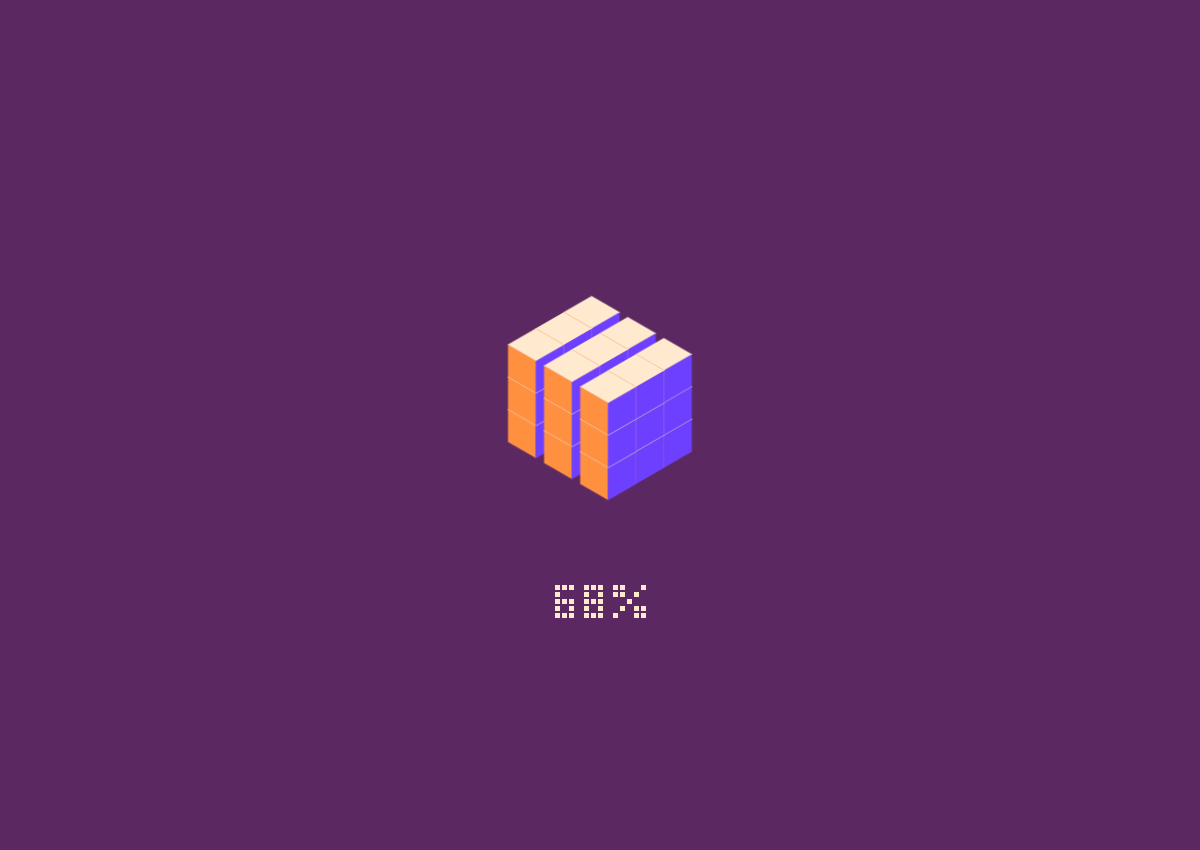
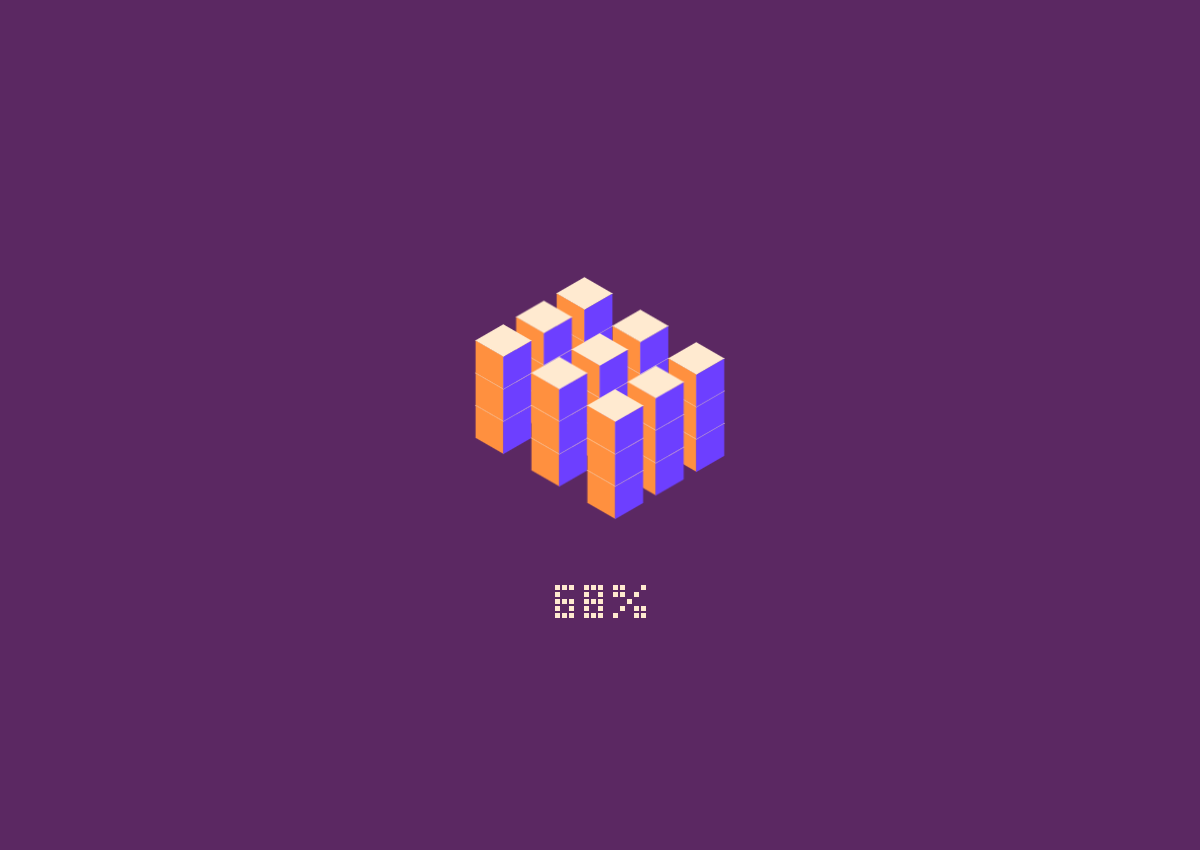
Reveal genuinely slow loads with a center-opening curtain and skip fast transitions

Changed region(s): [[0.37, 0.3059, 0.6167, 0.6118]]

diff --git a/site-loader.css b/site-loader.css
@@ -1,6 +1,6 @@
 /* Cube arrangement/keyframe positions adapted from cssinate's Cube loading animation:
    https://codepen.io/cssinate/pen/vXEwmX. Palette approved by Cecilia. */
-.cecilia-loader{--loader-scale:.65;--pixel:5px;--pixel-gap:2px;position:fixed;inset:0;z-index:10000;display:flex;flex-direction:column;align-items:center;justify-content:center;gap:22px;background:#5B2862;color:#FFEAD0;border:0;margin:0;padding:0;isolation:isolate;overflow:hidden;box-sizing:border-box}
+.cecilia-loader{--loader-scale:.65;--pixel:5px;--pixel-gap:2px;position:fixed;inset:0;z-index:10000;display:flex;flex-direction:column;align-items:center;justify-content:center;gap:22px;background:#5B2862;color:#FFEAD0;border:0;margin:0;padding:0;isolation:isolate;overflow:hidden;box-sizing:border-box;visibility:hidden;pointer-events:none;animation:cecilia-loader-appear 0s 450ms forwards}
 .cecilia-loader[hidden]{display:none!important}
 .cecilia-loader .cube-scene{width:320px;height:330px;position:relative;flex:none}
 .cecilia-loader .cube-origin{position:absolute;width:86px;height:100px;left:50%;top:50%;transform:translate(-50%,-50%) scale(var(--loader-scale))}
@@ -20,3 +20,16 @@
 @media(prefers-reduced-motion:reduce){.cecilia-loader .cube{animation-play-state:paused;animation-delay:0s}}
 @media print{.cecilia-loader{display:none!important}}
 .cecilia-loader .h1w1l1{z-index:-1;animation-name:cecilia-h1w1l1}@keyframes cecilia-h1w1l1{0%{transform:translate(0%,-100%);}14%{transform:translate(-50%,-125%);}28%{transform:translate(0%,-150%);}43%{transform:translate(0%,-200%);}57%{transform:translate(50%,-175%);}71%{transform:translate(0%,-150%);}85%{transform:translate(0%,-100%);}100%{transform:translate(0%,-100%);}}.cecilia-loader .h1w1l2{z-index:-1;animation-name:cecilia-h1w1l2}@keyframes cecilia-h1w1l2{0%{transform:translate(50%,-75%);}14%{transform:translate(50%,-75%);}28%{transform:translate(100%,-100%);}43%{transform:translate(100%,-150%);}57%{transform:translate(100%,-150%);}71%{transform:translate(50%,-125%);}85%{transform:translate(50%,-75%);}100%{transform:translate(50%,-75%);}}.cecilia-loader .h1w1l3{z-index:-1;animation-name:cecilia-h1w1l3}@keyframes cecilia-h1w1l3{0%{transform:translate(100%,-50%);}14%{transform:translate(150%,-25%);}28%{transform:translate(200%,-50%);}43%{transform:translate(200%,-100%);}57%{transform:translate(150%,-125%);}71%{transform:translate(100%,-100%);}85%{transform:translate(100%,-50%);}100%{transform:translate(100%,-50%);}}.cecilia-loader .h1w2l1{z-index:-1;animation-name:cecilia-h1w2l1}@keyframes cecilia-h1w2l1{0%{transform:translate(-50%,-75%);}14%{transform:translate(-100%,-100%);}28%{transform:translate(-100%,-100%);}43%{transform:translate(-100%,-150%);}57%{transform:translate(-50%,-125%);}71%{transform:translate(-50%,-125%);}85%{transform:translate(-50%,-75%);}100%{transform:translate(-50%,-75%);}}.cecilia-loader .h1w2l2{z-index:-1;animation-name:cecilia-h1w2l2}@keyframes cecilia-h1w2l2{0%{transform:translate(0%,-50%);}14%{transform:translate(0%,-50%);}28%{transform:translate(0%,-50%);}43%{transform:translate(0%,-100%);}57%{transform:translate(0%,-100%);}71%{transform:translate(0%,-100%);}85%{transform:translate(0%,-50%);}100%{transform:translate(0%,-50%);}}.cecilia-loader .h1w2l3{z-index:-1;animation-name:cecilia-h1w2l3}@keyframes cecilia-h1w2l3{0%{transform:translate(50%,-25%);}14%{transform:translate(100%,0%);}28%{transform:translate(100%,0%);}43%{transform:translate(100%,-50%);}57%{transform:translate(50%,-75%);}71%{transform:translate(50%,-75%);}85%{transform:translate(50%,-25%);}100%{transform:translate(50%,-25%);}}.cecilia-loader .h1w3l1{z-index:-1;animation-name:cecilia-h1w3l1}@keyframes cecilia-h1w3l1{0%{transform:translate(-100%,-50%);}14%{transform:translate(-150%,-75%);}28%{transform:translate(-200%,-50%);}43%{transform:translate(-200%,-100%);}57%{transform:translate(-150%,-75%);}71%{transform:translate(-100%,-100%);}85%{transform:translate(-100%,-50%);}100%{transform:translate(-100%,-50%);}}.cecilia-loader .h1w3l2{z-index:-1;animation-name:cecilia-h1w3l2}@keyframes cecilia-h1w3l2{0%{transform:translate(-50%,-25%);}14%{transform:translate(-50%,-25%);}28%{transform:translate(-100%,0%);}43%{transform:translate(-100%,-50%);}57%{transform:translate(-100%,-50%);}71%{transform:translate(-50%,-75%);}85%{transform:translate(-50%,-25%);}100%{transform:translate(-50%,-25%);}}.cecilia-loader .h1w3l3{z-index:-1;animation-name:cecilia-h1w3l3}@keyframes cecilia-h1w3l3{0%{transform:translate(0%,0%);}14%{transform:translate(50%,25%);}28%{transform:translate(0%,50%);}43%{transform:translate(0%,0%);}57%{transform:translate(-50%,-25%);}71%{transform:translate(0%,-50%);}85%{transform:translate(0%,0%);}100%{transform:translate(0%,0%);}}.cecilia-loader .h2w1l1{z-index:-2;animation-name:cecilia-h2w1l1}@keyframes cecilia-h2w1l1{0%{transform:translate(0%,-50%);}14%{transform:translate(-50%,-75%);}28%{transform:translate(0%,-100%);}43%{transform:translate(0%,-100%);}57%{transform:translate(50%,-75%);}71%{transform:translate(0%,-50%);}85%{transform:translate(0%,-50%);}100%{transform:translate(0%,-50%);}}.cecilia-loader .h2w1l2{z-index:-2;animation-name:cecilia-h2w1l2}@keyframes cecilia-h2w1l2{0%{transform:translate(50%,-25%);}14%{transform:translate(50%,-25%);}28%{transform:translate(100%,-50%);}43%{transform:translate(100%,-50%);}57%{transform:translate(100%,-50%);}71%{transform:translate(50%,-25%);}85%{transform:translate(50%,-25%);}100%{transform:translate(50%,-25%);}}.cecilia-loader .h2w1l3{z-index:-2;animation-name:cecilia-h2w1l3}@keyframes cecilia-h2w1l3{0%{transform:translate(100%,0%);}14%{transform:translate(150%,25%);}28%{transform:translate(200%,0%);}43%{transform:translate(200%,0%);}57%{transform:translate(150%,-25%);}71%{transform:translate(100%,0%);}85%{transform:translate(100%,0%);}100%{transform:translate(100%,0%);}}.cecilia-loader .h2w2l1{z-index:-2;animation-name:cecilia-h2w2l1}@keyframes cecilia-h2w2l1{0%{transform:translate(-50%,-25%);}14%{transform:translate(-100%,-50%);}28%{transform:translate(-100%,-50%);}43%{transform:translate(-100%,-50%);}57%{transform:translate(-50%,-25%);}71%{transform:translate(-50%,-25%);}85%{transform:translate(-50%,-25%);}100%{transform:translate(-50%,-25%);}}.cecilia-loader .h2w2l2{z-index:-2;animation-name:cecilia-h2w2l2}@keyframes cecilia-h2w2l2{0%{transform:translate(0%,0%);}14%{transform:translate(0%,0%);}28%{transform:translate(0%,0%);}43%{transform:translate(0%,0%);}57%{transform:translate(0%,0%);}71%{transform:translate(0%,0%);}85%{transform:translate(0%,0%);}100%{transform:translate(0%,0%);}}.cecilia-loader .h2w2l3{z-index:-2;animation-name:cecilia-h2w2l3}@keyframes cecilia-h2w2l3{0%{transform:translate(50%,25%);}14%{transform:translate(100%,50%);}28%{transform:translate(100%,50%);}43%{transform:translate(100%,50%);}57%{transform:translate(50%,25%);}71%{transform:translate(50%,25%);}85%{transform:translate(50%,25%);}100%{transform:translate(50%,25%);}}.cecilia-loader .h2w3l1{z-index:-2;animation-name:cecilia-h2w3l1}@keyframes cecilia-h2w3l1{0%{transform:translate(-100%,0%);}14%{transform:translate(-150%,-25%);}28%{transform:translate(-200%,0%);}43%{transform:translate(-200%,0%);}57%{transform:translate(-150%,25%);}71%{transform:translate(-100%,0%);}85%{transform:translate(-100%,0%);}100%{transform:translate(-100%,0%);}}.cecilia-loader .h2w3l2{z-index:-2;animation-name:cecilia-h2w3l2}@keyframes cecilia-h2w3l2{0%{transform:translate(-50%,25%);}14%{transform:translate(-50%,25%);}28%{transform:translate(-100%,50%);}43%{transform:translate(-100%,50%);}57%{transform:translate(-100%,50%);}71%{transform:translate(-50%,25%);}85%{transform:translate(-50%,25%);}100%{transform:translate(-50%,25%);}}.cecilia-loader .h2w3l3{z-index:-2;animation-name:cecilia-h2w3l3}@keyframes cecilia-h2w3l3{0%{transform:translate(0%,50%);}14%{transform:translate(50%,75%);}28%{transform:translate(0%,100%);}43%{transform:translate(0%,100%);}57%{transform:translate(-50%,75%);}71%{transform:translate(0%,50%);}85%{transform:translate(0%,50%);}100%{transform:translate(0%,50%);}}.cecilia-loader .h3w1l1{z-index:-3;animation-name:cecilia-h3w1l1}@keyframes cecilia-h3w1l1{0%{transform:translate(0%,0%);}14%{transform:translate(-50%,-25%);}28%{transform:translate(0%,-50%);}43%{transform:translate(0%,0%);}57%{transform:translate(50%,25%);}71%{transform:translate(0%,50%);}85%{transform:translate(0%,0%);}100%{transform:translate(0%,0%);}}.cecilia-loader .h3w1l2{z-index:-3;animation-name:cecilia-h3w1l2}@keyframes cecilia-h3w1l2{0%{transform:translate(50%,25%);}14%{transform:translate(50%,25%);}28%{transform:translate(100%,0%);}43%{transform:translate(100%,50%);}57%{transform:translate(100%,50%);}71%{transform:translate(50%,75%);}85%{transform:translate(50%,25%);}100%{transform:translate(50%,25%);}}.cecilia-loader .h3w1l3{z-index:-3;animation-name:cecilia-h3w1l3}@keyframes cecilia-h3w1l3{0%{transform:translate(100%,50%);}14%{transform:translate(150%,75%);}28%{transform:translate(200%,50%);}43%{transform:translate(200%,100%);}57%{transform:translate(150%,75%);}71%{transform:translate(100%,100%);}85%{transform:translate(100%,50%);}100%{transform:translate(100%,50%);}}.cecilia-loader .h3w2l1{z-index:-3;animation-name:cecilia-h3w2l1}@keyframes cecilia-h3w2l1{0%{transform:translate(-50%,25%);}14%{transform:translate(-100%,0%);}28%{transform:translate(-100%,0%);}43%{transform:translate(-100%,50%);}57%{transform:translate(-50%,75%);}71%{transform:translate(-50%,75%);}85%{transform:translate(-50%,25%);}100%{transform:translate(-50%,25%);}}.cecilia-loader .h3w2l2{z-index:-3;animation-name:cecilia-h3w2l2}@keyframes cecilia-h3w2l2{0%{transform:translate(0%,50%);}14%{transform:translate(0%,50%);}28%{transform:translate(0%,50%);}43%{transform:translate(0%,100%);}57%{transform:translate(0%,100%);}71%{transform:translate(0%,100%);}85%{transform:translate(0%,50%);}100%{transform:translate(0%,50%);}}.cecilia-loader .h3w2l3{z-index:-3;animation-name:cecilia-h3w2l3}@keyframes cecilia-h3w2l3{0%{transform:translate(50%,75%);}14%{transform:translate(100%,100%);}28%{transform:translate(100%,100%);}43%{transform:translate(100%,150%);}57%{transform:translate(50%,125%);}71%{transform:translate(50%,125%);}85%{transform:translate(50%,75%);}100%{transform:translate(50%,75%);}}.cecilia-loader .h3w3l1{z-index:-3;animation-name:cecilia-h3w3l1}@keyframes cecilia-h3w3l1{0%{transform:translate(-100%,50%);}14%{transform:translate(-150%,25%);}28%{transform:translate(-200%,50%);}43%{transform:translate(-200%,100%);}57%{transform:translate(-150%,125%);}71%{transform:translate(-100%,100%);}85%{transform:translate(-100%,50%);}100%{transform:translate(-100%,50%);}}.cecilia-loader .h3w3l2{z-index:-3;animation-name:cecilia-h3w3l2}@keyframes cecilia-h3w3l2{0%{transform:translate(-50%,75%);}14%{transform:translate(-50%,75%);}28%{transform:translate(-100%,100%);}43%{transform:translate(-100%,150%);}57%{transform:translate(-100%,150%);}71%{transform:translate(-50%,125%);}85%{transform:translate(-50%,75%);}100%{transform:translate(-50%,75%);}}.cecilia-loader .h3w3l3{z-index:-3;animation-name:cecilia-h3w3l3}@keyframes cecilia-h3w3l3{0%{transform:translate(0%,100%);}14%{transform:translate(50%,125%);}28%{transform:translate(0%,150%);}43%{transform:translate(0%,200%);}57%{transform:translate(-50%,175%);}71%{transform:translate(0%,150%);}85%{transform:translate(0%,100%);}100%{transform:translate(0%,100%);}}
+
+@keyframes cecilia-loader-appear{to{visibility:visible;pointer-events:auto}}
+.cecilia-loader.is-visible{visibility:visible;pointer-events:auto}
+.cecilia-loader .loader-curtain{position:absolute;top:0;bottom:0;width:50.1%;background:#5B2862;z-index:0;transition:transform 700ms cubic-bezier(.76,0,.24,1);will-change:transform}
+.cecilia-loader .loader-curtain-left{left:0}
+.cecilia-loader .loader-curtain-right{right:0}
+.cecilia-loader .cube-scene,.cecilia-loader .pixel-percent{z-index:1;position:relative;transition:opacity 200ms ease,transform 300ms ease}
+.cecilia-loader.is-opening{background:transparent}
+.cecilia-loader.is-opening .loader-curtain-left{transform:translateX(-101%)}
+.cecilia-loader.is-opening .loader-curtain-right{transform:translateX(101%)}
+.cecilia-loader.is-opening .cube-scene{opacity:0;transform:scale(.94)}
+.cecilia-loader.is-opening .pixel-percent{opacity:0}
+@media(prefers-reduced-motion:reduce){.cecilia-loader .loader-curtain,.cecilia-loader .cube-scene,.cecilia-loader .pixel-percent{transition:none}}

diff --git a/site-loader.js b/site-loader.js
@@ -11,15 +11,50 @@
     element.classList.add('cecilia-loader');if(inline)element.classList.add('cecilia-loader--inline');
     element.setAttribute('role','progressbar');element.setAttribute('aria-label','正在加载');element.setAttribute('aria-valuemin','0');element.setAttribute('aria-valuemax','100');
     if(!element.querySelector('.cube-origin'))element.innerHTML=markup();
-    let value=-1,finished=false;
+    // Delay presentation, never completion: fast/cached reads remain unobscured.
+    const bootVisible=getComputedStyle(element).visibility==='visible';
+    const started=element.id==='loading'?0:performance.now();
+    element.style.animation='none';
+    element.classList.remove('is-opening','is-visible');
+    if(!element.querySelector('.loader-curtain')){
+      element.insertAdjacentHTML('afterbegin','<div class="loader-curtain loader-curtain-left" aria-hidden="true"></div><div class="loader-curtain loader-curtain-right" aria-hidden="true"></div>');
+    }
+    let value=-1,finished=false,shown=false,showTimer,openingTimer,endTimer;
+    element.dataset.shown='false';
+    function show(){
+      if(finished)return;
+      shown=true;element.dataset.shown='true';element.classList.add('is-visible');
+    }
+    if(bootVisible||performance.now()-started>=450)show();
+    else showTimer=setTimeout(show,Math.max(0,450-(performance.now()-started)));
+    function clearTimers(){clearTimeout(showTimer);clearTimeout(openingTimer);clearTimeout(endTimer);}
+    function hide(reason){
+      clearTimers();element.removeEventListener('transitionend',onTransitionEnd);
+      element.hidden=true;element.dataset.transition=reason;
+      element.dispatchEvent(new Event('loadercomplete'));
+    }
+    function onTransitionEnd(event){
+      if(event.propertyName==='transform'&&event.target.classList.contains('loader-curtain-right'))hide('revealed');
+    }
     function setPercent(next){
       if(finished)return;
       const rounded=Math.max(value,Math.min(100,Math.floor(next)));
       if(rounded===value)return;value=rounded;element.dataset.percent=String(value);element.setAttribute('aria-valuenow',String(value));
       element.querySelector('.pixel-percent').innerHTML=[...`${value}%`].map(char=>{const rows=digits[char];return `<span class="pixel-digit" style="--columns:${rows[0].length}">${rows.join('').split('').map(cell=>`<i${cell==='1'?' class="on"':''}></i>`).join('')}</span>`;}).join('');
     }
-    function finish(){if(finished)return;setPercent(100);finished=true;setTimeout(()=>{element.hidden=true;element.dispatchEvent(new Event('loadercomplete'));},120);}
-    function cancel(){finished=true;element.hidden=true;}
+    function finish(){
+      if(finished)return;
+      setPercent(100);finished=true;clearTimeout(showTimer);
+      if(!shown){hide('skipped');return;}
+      if(matchMedia('(prefers-reduced-motion: reduce)').matches){hide('reduced-motion');return;}
+      // Only a loader that was genuinely visible receives the approved reveal.
+      openingTimer=setTimeout(()=>{
+        element.dataset.transition='opening';element.classList.add('is-opening');
+        element.addEventListener('transitionend',onTransitionEnd);
+        endTimer=setTimeout(()=>hide('revealed'),800);
+      },200);
+    }
+    function cancel(){finished=true;hide('cancelled');}
     const api={element,setPercent,finish,cancel};element._ceciliaLoader=api;setPercent(0);return api;
   }
   function watchImages(element,images,inline=false){

diff --git a/works.html b/works.html
@@ -3,11 +3,11 @@
 <head>
   <meta charset="utf-8"><meta name="viewport" content="width=device-width,initial-scale=1">
   <title>其他项目 · 王钰欣</title><meta name="description" content="王钰欣的国际工作坊与独立游戏设计项目记录。">
-  <script src="site-loader.js?v=cubes-1" data-auto-loader defer></script>
+  <script src="site-loader.js?v=cubes-2" data-auto-loader defer></script>
 <script>if (window.top === window && !new URLSearchParams(location.search).has("document")) location.replace("cecilia-world/hub.html#other");</script>
   <link rel="stylesheet" href="styles.css"><link rel="stylesheet" href="site.css"><link rel="stylesheet" href="world-resume.css?v=original-type-2">
   <script src="resume.js" defer></script><script src="site.js?v=design-world-1" defer></script>
-<link rel="stylesheet" href="site-loader.css?v=cubes-1">
+<link rel="stylesheet" href="site-loader.css?v=cubes-2">
 </head>
 <body>
   <header class="topbar"><a class="wordmark" href="index.html">← 返回设计世界</a><nav aria-label="阅读导航"><a href="resume.html">个人简历</a><a href="portfolio.html">作品集</a></nav></header>

diff --git a/dream-sentinel.html b/dream-sentinel.html
@@ -6,7 +6,7 @@
   <meta name="description" content="DREAM SENTINEL 梦境哨兵：面向未来灾害场景的智能颈部穿戴设备概念设计。">
   <title>梦境哨兵 · DREAM SENTINEL · Yuxin Wang</title>
   <link rel="stylesheet" href="dream-sentinel.css?v=sentinel-34">
-  <script src="site-loader.js?v=cubes-1" data-auto-loader defer></script>
+  <script src="site-loader.js?v=cubes-2" data-auto-loader defer></script>
 <script src="dream-sentinel-layers.js?v=sentinel-1" defer></script>
   <script src="dream-sentinel.js?v=sentinel-32" defer></script>
   <script src="dream-sentinel-32-layers.js?v=sentinel-32-globe" defer></script>
@@ -15,7 +15,7 @@
   <script src="dream-sentinel-33.js?v=sentinel-34" defer></script>
   <script src="dream-sentinel-34-layers.js?v=sentinel-34" defer></script>
   <script src="dream-sentinel-34.js?v=sentinel-34" defer></script>
-<link rel="stylesheet" href="site-loader.css?v=cubes-1">
+<link rel="stylesheet" href="site-loader.css?v=cubes-2">
 </head>
 <body>
   <svg class="render-filters" aria-hidden="true" xmlns="http://www.w3.org/2000/svg">

diff --git a/resume.html b/resume.html
@@ -2,7 +2,7 @@
 <html lang="zh-CN">
 <head>
   <meta charset="UTF-8" />
-  <script src="site-loader.js?v=cubes-1" data-auto-loader defer></script>
+  <script src="site-loader.js?v=cubes-2" data-auto-loader defer></script>
 <script>if(window.top===window&&!new URLSearchParams(location.search).has('document'))location.replace('cecilia-world/hub.html#resume');</script>
   <meta name="viewport" content="width=device-width, initial-scale=1" />
   <meta name="description" content="王钰欣的两页个人简历，保留原稿排版与字形。" />
@@ -11,7 +11,7 @@
   <link rel="stylesheet" href="resume-document.css?v=cv-slices-2" />
   <script src="resume-layers.js?v=cv-slices-2" defer></script>
   <script src="resume-document.js?v=cv-slices-2" defer></script>
-<link rel="stylesheet" href="site-loader.css?v=cubes-1">
+<link rel="stylesheet" href="site-loader.css?v=cubes-2">
 </head>
 <body>
   <header class="resume-toolbar" aria-label="简历阅读工具">

diff --git a/tideline.html b/tideline.html
@@ -6,9 +6,9 @@
   <title>Tideline Seaweed Tea · Yuxin Wang</title>
   <meta name="description" content="Tideline Seaweed Tea — a Findhorn coastal design project by Yuxin Wang and team.">
   <link rel="stylesheet" href="tideline.css?v=navigation-2">
-  <script src="site-loader.js?v=cubes-1" data-auto-loader defer></script>
+  <script src="site-loader.js?v=cubes-2" data-auto-loader defer></script>
 <script src="tideline.js?v=navigation-2" defer></script>
-<link rel="stylesheet" href="site-loader.css?v=cubes-1">
+<link rel="stylesheet" href="site-loader.css?v=cubes-2">
 </head>
 <body>
   <div class="portfolio-bar"><button id="project-back" type="button">← 返回上一页</button><span>TIDELINE SEAWEED TEA</span><a href="portfolio.html">返回作品集 ↗</a></div>

diff --git a/gazette.html b/gazette.html
@@ -7,10 +7,10 @@
 <title>Future Gazette · 作品集</title>
 <link rel="stylesheet" href="portfolio.css?v=large-reader-10">
 <link rel="stylesheet" href="site.css?v=portfolio-collection-1">
-<script src="site-loader.js?v=cubes-1" data-auto-loader defer></script>
+<script src="site-loader.js?v=cubes-2" data-auto-loader defer></script>
 <script src="site.js?v=day-only-2" defer></script>
 <script src="assets/vendor/page-flip/page-flip.browser.js" defer></script><script src="portfolio.js?v=large-reader-10" defer></script>
-<link rel="stylesheet" href="site-loader.css?v=cubes-1">
+<link rel="stylesheet" href="site-loader.css?v=cubes-2">
 </head>
 <body class="portfolio-page gazette-page">
 <main id="gazette-reader">

diff --git a/safepaw.html b/safepaw.html
@@ -6,10 +6,10 @@
   <meta name="description" content="SafePaw Family 宠爱守护：面向儿童与宠物犬互动的智能安全交互系统设计。">
   <title>SafePaw Family 宠爱守护 · Cecilia</title>
   <link rel="stylesheet" href="safepaw.css?v=1">
-  <script src="site-loader.js?v=cubes-1" data-auto-loader defer></script>
+  <script src="site-loader.js?v=cubes-2" data-auto-loader defer></script>
 <script src="safepaw-layers.js?v=1" defer></script>
   <script src="safepaw.js?v=1" defer></script>
-<link rel="stylesheet" href="site-loader.css?v=cubes-1">
+<link rel="stylesheet" href="site-loader.css?v=cubes-2">
 </head>
 <body>
   <header class="project-bar">
